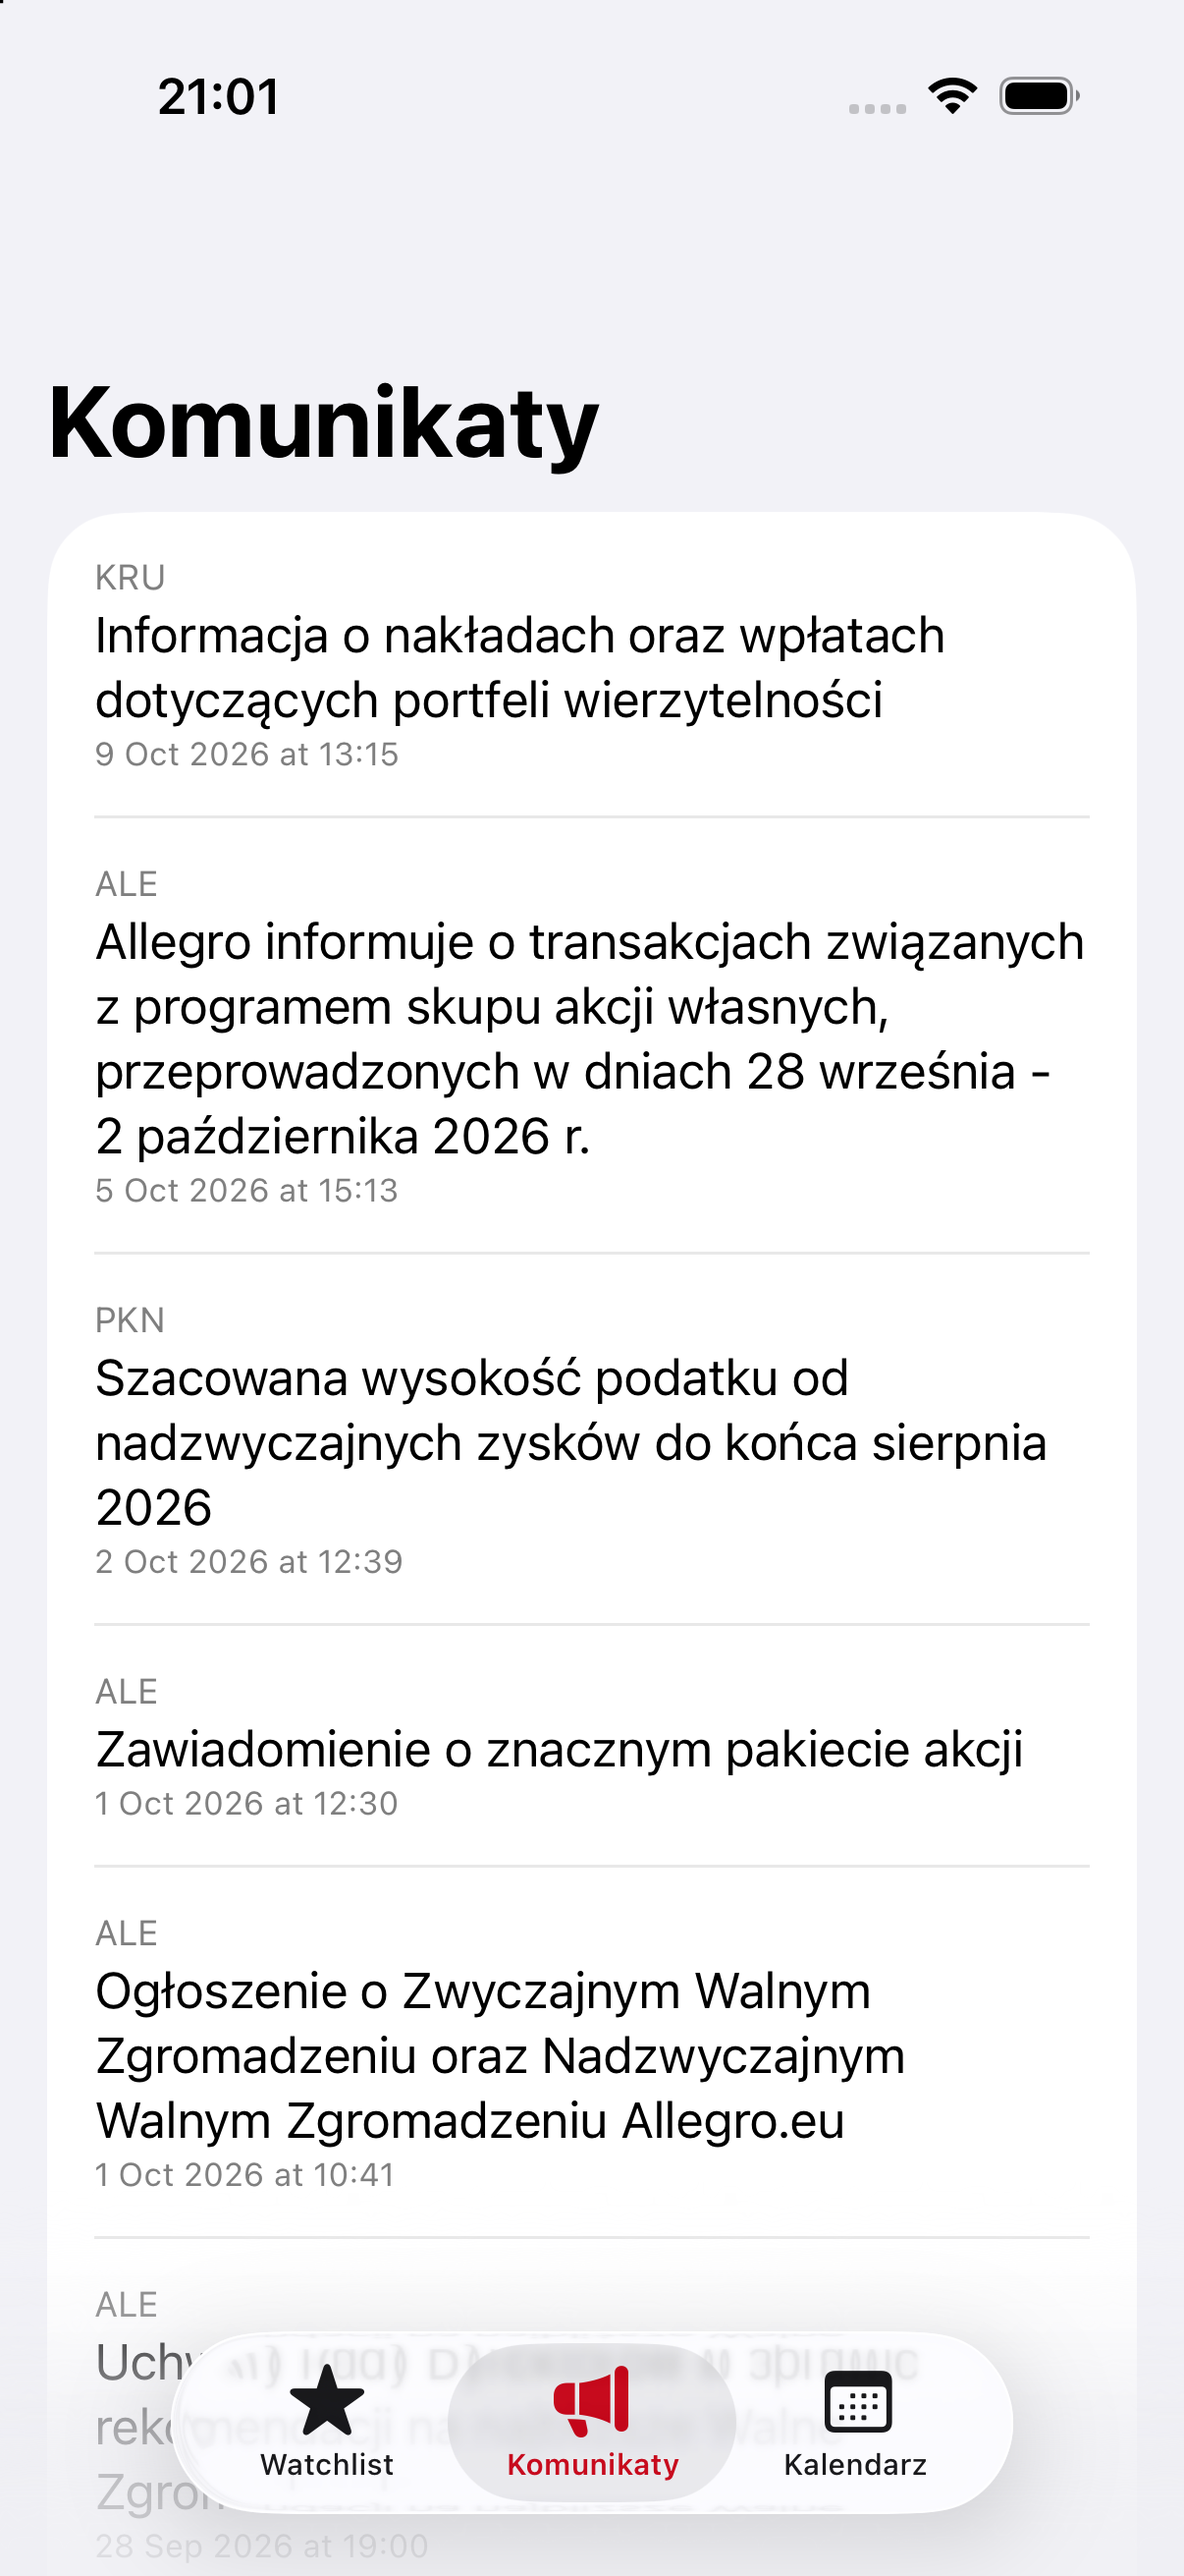
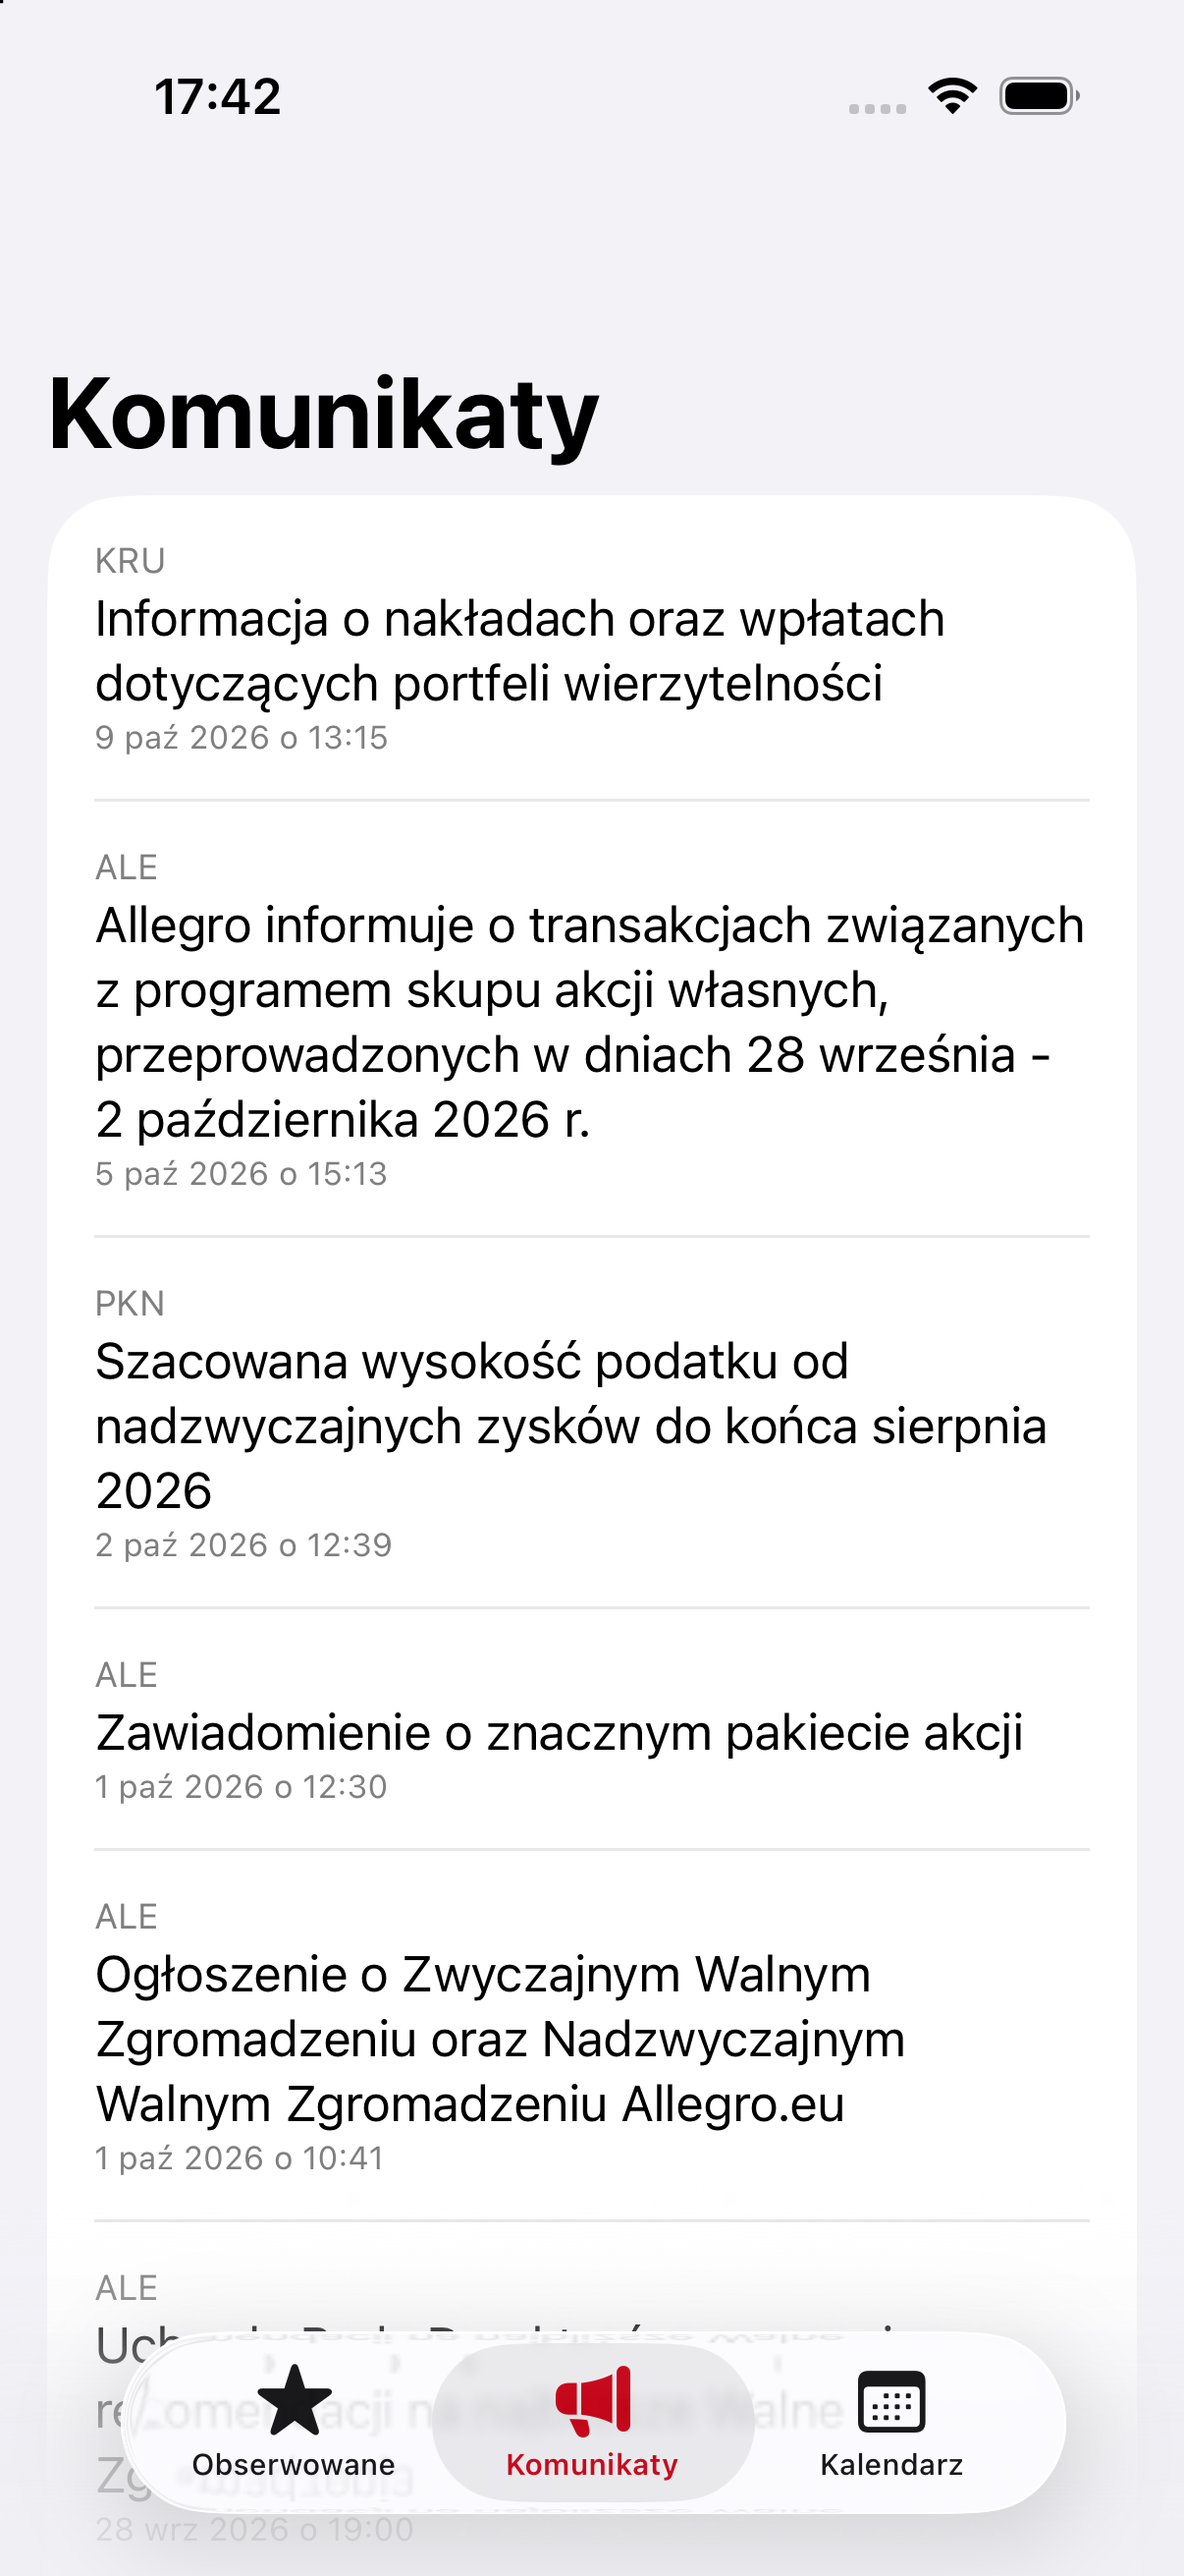
UI: highlight today, list selected month, tappable announcements, Polish naming and dates

diff --git a/ios/Features/CompanyDetail/CompanyDetailView.swift b/ios/Features/CompanyDetail/CompanyDetailView.swift
@@ -5,6 +5,7 @@ struct CompanyDetailView: View {
     @Bindable var company: Company
 
     @Environment(\.modelContext) private var modelContext
+    @Environment(\.openURL) private var openURL
     @State private var announcements: [Announcement] = []
     @State private var events: [CalendarEvent] = []
     @State private var showAllAnnouncements = false
@@ -48,8 +49,8 @@ struct CompanyDetailView: View {
                             company.isMuted.toggle()
                         } label: {
                             Label(
-                                company.isMuted ? "Wyciszone" : "Wycisz powiadomienia",
-                                systemImage: company.isMuted ? "bell.slash.fill" : "bell"
+                                company.isMuted ? "Powiadomienia wyłączone" : "Powiadomienia włączone",
+                                systemImage: company.isMuted ? "bell.slash" : "bell.fill"
                             )
                         }
                         .labelStyle(.iconOnly)
@@ -65,12 +66,30 @@ struct CompanyDetailView: View {
                         .foregroundStyle(.secondary)
                 } else {
                     ForEach(visibleAnnouncements) { item in
-                        VStack(alignment: .leading) {
-                            Text(item.title)
-                            Text(item.publishedAt.formatted(date: .abbreviated, time: .shortened))
-                                .font(.caption)
-                                .foregroundStyle(.secondary)
+                        Button {
+                            item.isRead = true
+                            if let url = URL(string: item.url) {
+                                openURL(url)
+                            }
+                        } label: {
+                            HStack(alignment: .top, spacing: 8) {
+                                if !item.isRead {
+                                    Circle()
+                                        .fill(.tint)
+                                        .frame(width: 8, height: 8)
+                                        .padding(.top, 6)
+                                }
+                                VStack(alignment: .leading) {
+                                    Text(item.title)
+                                        .font(item.isRead ? .body : .body.bold())
+                                        .foregroundStyle(.primary)
+                                    Text(item.publishedAt.polishDateTime)
+                                        .font(.caption)
+                                        .foregroundStyle(.secondary)
+                                }
+                            }
                         }
+                        .buttonStyle(.plain)
                     }
                     if announcements.count > Self.collapsedCount {
                         Button(showAllAnnouncements ? "Pokaż mniej" : "Pokaż więcej") {
@@ -88,7 +107,7 @@ struct CompanyDetailView: View {
                     ForEach(visibleEvents) { event in
                         VStack(alignment: .leading) {
                             Text(event.reportType)
-                            Text(event.eventDate.formatted(date: .abbreviated, time: .omitted))
+                            Text(event.eventDate.polishDate)
                                 .font(.caption)
                                 .foregroundStyle(.secondary)
                         }

diff --git a/ios/Features/Calendar/EarningsCalendarView.swift b/ios/Features/Calendar/EarningsCalendarView.swift
@@ -28,22 +28,24 @@ struct EarningsCalendarView: View {
             MonthGrid(visibleMonth: visibleMonth, eventsByDay: eventsByDay)
 
             List {
-                let upcoming = eventsByDay.keys.sorted().filter { $0 >= Calendar.current.startOfDay(for: .now) }
+                let daysInMonth = eventsByDay.keys.sorted().filter {
+                    Calendar.current.isDate($0, equalTo: visibleMonth, toGranularity: .month)
+                }
                 if watchedCompanies.isEmpty {
                     ContentUnavailableView(
                         "Brak obserwowanych spółek",
                         systemImage: "calendar",
                         description: Text("Dodaj spółki do watchlisty, aby zobaczyć terminy ich raportów.")
                     )
-                } else if upcoming.isEmpty {
+                } else if daysInMonth.isEmpty {
                     ContentUnavailableView(
-                        "Brak zaplanowanych publikacji",
+                        "Brak terminów",
                         systemImage: "calendar.badge.clock",
-                        description: Text("Przeciągnij listę w dół, aby sprawdzić najnowsze terminy.")
+                        description: Text("W tym miesiącu nie ma zaplanowanych publikacji. Zmień miesiąc strzałkami lub przeciągnij listę w dół.")
                     )
                 } else {
-                    ForEach(upcoming, id: \.self) { day in
-                        Section(day.formatted(date: .abbreviated, time: .omitted)) {
+                    ForEach(daysInMonth, id: \.self) { day in
+                        Section(day.polishDate) {
                             ForEach(eventsByDay[day] ?? []) { event in
                                 VStack(alignment: .leading) {
                                     Text(event.companyTicker ?? "")
@@ -82,7 +84,7 @@ private struct MonthHeader: View {
         HStack {
             Button { shift(by: -1) } label: { Image(systemName: "chevron.left") }
             Spacer()
-            Text(visibleMonth.formatted(.dateTime.month(.wide).year()))
+            Text(visibleMonth.polishMonthYear)
                 .font(.headline)
             Spacer()
             Button { shift(by: 1) } label: { Image(systemName: "chevron.right") }
@@ -126,9 +128,13 @@ private struct MonthGrid: View {
             ForEach(Array(days.enumerated()), id: \.offset) { _, day in
                 if let day {
                     let hasEvents = !(eventsByDay[calendar.startOfDay(for: day)]?.isEmpty ?? true)
+                    let isToday = calendar.isDateInToday(day)
                     VStack(spacing: 2) {
                         Text("\(calendar.component(.day, from: day))")
-                            .font(.caption)
+                            .font(.caption.weight(isToday ? .bold : .regular))
+                            .foregroundStyle(isToday ? Color.white : Color.primary)
+                            .frame(width: 24, height: 24)
+                            .background(Circle().fill(isToday ? Color.accentColor : .clear))
                         Circle()
                             .fill(hasEvents ? Color.accentColor : .clear)
                             .frame(width: 5, height: 5)

diff --git a/ios/Features/Watchlist/WatchlistView.swift b/ios/Features/Watchlist/WatchlistView.swift
@@ -16,7 +16,7 @@ struct WatchlistView: View {
                     description: Text("Dodaj spółki z GPW, które chcesz śledzić.")
                 )
             } else {
-                Section("Obserwowane") {
+                Section("Spółki") {
                     ForEach(watchedCompanies) { company in
                         NavigationLink(value: company) {
                             CompanyRow(company: company)
@@ -25,7 +25,7 @@ struct WatchlistView: View {
                 }
             }
         }
-        .navigationTitle("Watchlist")
+        .navigationTitle("Obserwowane")
         .navigationDestination(for: Company.self) { company in
             CompanyDetailView(company: company)
         }

diff --git a/ios/Features/Shared/PolishDates.swift b/ios/Features/Shared/PolishDates.swift
@@ -1,0 +1,21 @@
+import Foundation
+
+private let polishLocale = Locale(identifier: "pl_PL")
+
+extension Date {
+    var polishDate: String {
+        formatted(Date.FormatStyle(date: .abbreviated, time: .omitted).locale(polishLocale))
+    }
+
+    var polishDateTime: String {
+        formatted(Date.FormatStyle(date: .abbreviated, time: .shortened).locale(polishLocale))
+    }
+
+    /// "październik 2026" (nominative, unlike the genitive "października" that FormatStyle produces).
+    var polishMonthYear: String {
+        let formatter = DateFormatter()
+        formatter.locale = polishLocale
+        formatter.dateFormat = "LLLL yyyy"
+        return formatter.string(from: self).localizedCapitalized
+    }
+}

diff --git a/ios/Features/Announcements/AnnouncementsFeedView.swift b/ios/Features/Announcements/AnnouncementsFeedView.swift
@@ -60,7 +60,7 @@ struct AnnouncementsFeedView: View {
                                 Text(item.title)
                                     .font(item.isRead ? .body : .body.bold())
                                     .foregroundStyle(.primary)
-                                Text(item.publishedAt.formatted(date: .abbreviated, time: .shortened))
+                                Text(item.publishedAt.polishDateTime)
                                     .font(.caption2)
                                     .foregroundStyle(.secondary)
                             }

diff --git a/ios/App/RootTabView.swift b/ios/App/RootTabView.swift
@@ -21,7 +21,7 @@ struct RootTabView: View {
             NavigationStack {
                 WatchlistView(watchedCompanies: watchedCompanies)
             }
-            .tabItem { Label("Watchlist", systemImage: "star.fill") }
+            .tabItem { Label("Obserwowane", systemImage: "star.fill") }
 
             NavigationStack {
                 AnnouncementsFeedView(watchedCompanies: watchedCompanies)

diff --git a/README.md b/README.md
@@ -27,11 +27,11 @@
 
 ## Features
 
-- **Watchlist.** Pick companies from the full GPW main market (~400 tickers, bundled as a seed) and see live prices and daily change.
+- **Watchlist ("Obserwowane").** Pick companies from the full GPW main market (~400 tickers, bundled as a seed) and see live prices and daily change.
 - **Announcements feed.** Official ESPI/EBI filings for the companies you follow, newest first, with unread markers and a tab badge.
 - **Earnings calendar.** Month view plus an upcoming list, filled in automatically with report publication dates.
 - **Company detail.** Quote, filings and report dates for a single company. Long lists are collapsed to three items with a "Pokaż więcej" toggle.
-- **Per-company mute.** Silence a company without removing it from the watchlist.
+- **Per-company notifications.** The bell on a company screen turns its notifications on (filled) or off (crossed out) without removing it from the watchlist.
 - **Local notifications.** A banner is posted when a refresh finds new filings.
 - **Push (backend ready).** Subscription upload and APNs delivery are implemented and gated on credentials, see [Limitations](#limitations).
 - **No accounts.** Everything the user picks lives on the device.
